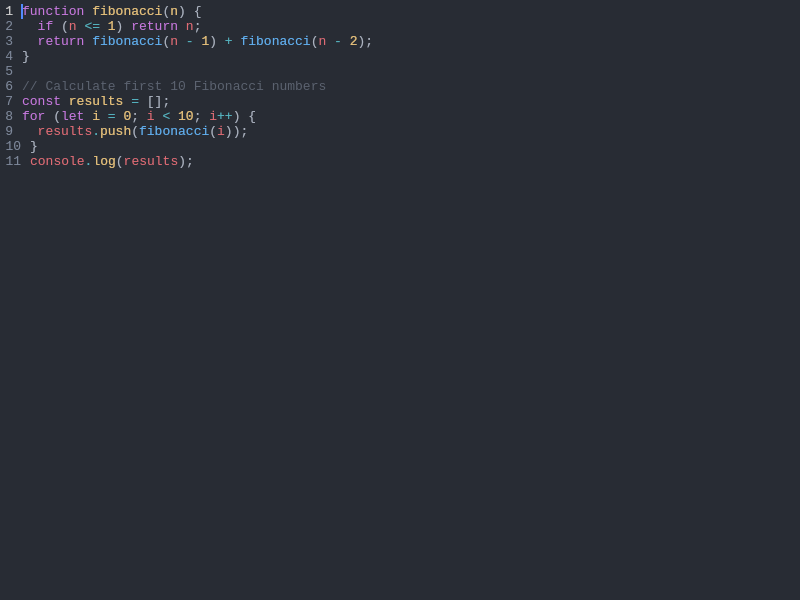
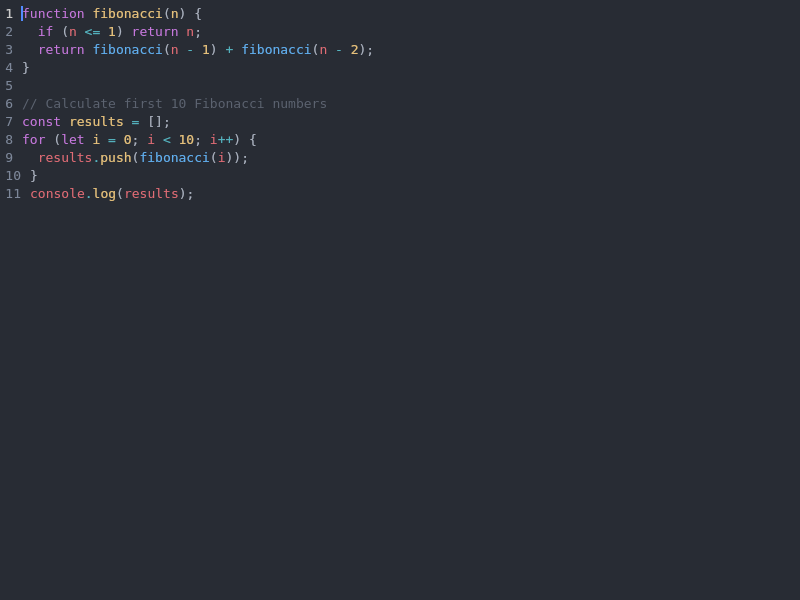
Fix editor font metrics to match CodeMirror rendering
Switch to DejaVu Sans Mono (Chromium's default monospace on Linux), enforce
line height via layout minHeight since Compose ignores lineHeight for
single-line text, center text vertically in line boxes.

diff --git a/view/src/commonMain/kotlin/com/monkopedia/kodemirror/view/EditorViewComposable.kt b/view/src/commonMain/kotlin/com/monkopedia/kodemirror/view/EditorViewComposable.kt
@@ -23,6 +23,7 @@ import androidx.compose.foundation.gestures.detectDragGestures
 import androidx.compose.foundation.gestures.detectTapGestures
 import androidx.compose.foundation.layout.Box
 import androidx.compose.foundation.layout.Row
+import androidx.compose.foundation.layout.defaultMinSize
 import androidx.compose.foundation.layout.fillMaxSize
 import androidx.compose.foundation.layout.fillMaxWidth
 import androidx.compose.foundation.layout.padding
@@ -37,10 +38,12 @@ import androidx.compose.runtime.LaunchedEffect
 import androidx.compose.runtime.getValue
 import androidx.compose.runtime.remember
 import androidx.compose.runtime.setValue
+import androidx.compose.ui.Alignment
 import androidx.compose.ui.Modifier
 import androidx.compose.ui.graphics.Color
 import androidx.compose.ui.input.key.onKeyEvent
 import androidx.compose.ui.input.pointer.pointerInput
+import androidx.compose.ui.platform.LocalDensity
 import androidx.compose.ui.text.TextLayoutResult
 import androidx.compose.ui.unit.dp
 import com.monkopedia.kodemirror.state.EditorState
@@ -98,6 +101,9 @@ fun EditorView(state: EditorState, onUpdate: (Transaction) -> Unit, modifier: Mo
 
     val lazyState = rememberLazyListState()
 
+    val density = LocalDensity.current
+    val lineHeightDp = with(density) { theme.contentTextStyle.lineHeight.toDp() }
+
     CompositionLocalProvider(LocalEditorTheme provides theme) {
         Box(
             modifier = modifier
@@ -144,14 +150,19 @@ fun EditorView(state: EditorState, onUpdate: (Transaction) -> Unit, modifier: Mo
                             val capturedLineNum = item.lineNumber
                             val capturedFrom = item.from
 
-                            var lineModifier: Modifier = Modifier.fillMaxWidth()
+                            var lineModifier: Modifier = Modifier
+                                .fillMaxWidth()
+                                .defaultMinSize(minHeight = lineHeightDp)
                             for (deco in item.lineDecorations) {
                                 val bg = deco.spec.style?.background
                                 if (bg != null && bg != Color.Unspecified) {
                                     lineModifier = lineModifier.background(bg)
                                 }
                             }
-                            Row(modifier = lineModifier) {
+                            Row(
+                                modifier = lineModifier,
+                                verticalAlignment = Alignment.CenterVertically
+                            ) {
                                 if (hasGutters) {
                                     GutterView(
                                         view = view,

diff --git a/view/src/commonMain/kotlin/com/monkopedia/kodemirror/view/EditorTheme.kt b/view/src/commonMain/kotlin/com/monkopedia/kodemirror/view/EditorTheme.kt
@@ -30,7 +30,7 @@ import androidx.compose.ui.text.platform.SystemFont
 import androidx.compose.ui.unit.sp
 import com.monkopedia.kodemirror.state.Facet
 
-private val editorFontFamily = FontFamily(SystemFont("Courier New"))
+private val editorFontFamily = FontFamily(SystemFont("DejaVu Sans Mono"))
 
 /**
  * Color/style tokens for the editor.  Passed through a [CompositionLocal] so
